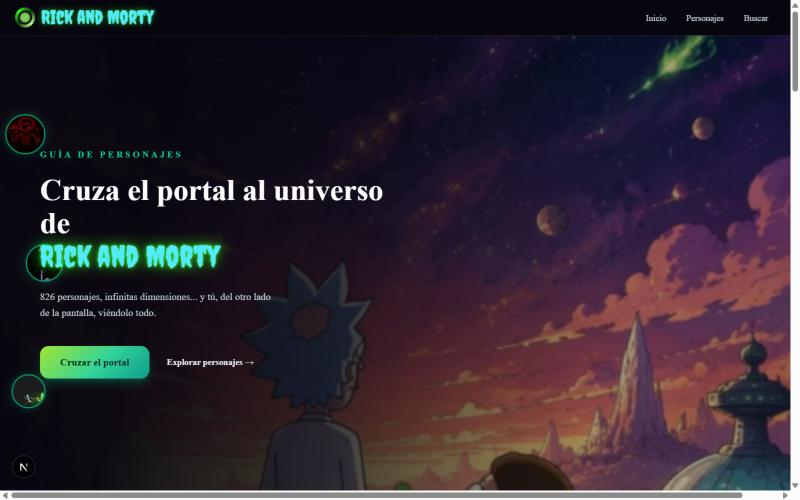
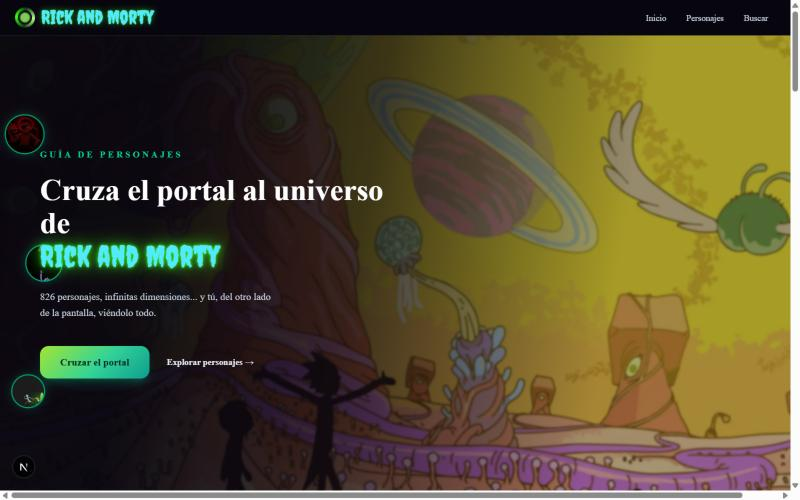
fix : semana10 - reemplazar el fondo del hero por una version en 1080p real
La imagen de referencia (landscape.jpg) era un wallpaper de celular de
736x1472: por mas CSS que se le aplique no hay detalle real que mostrar
en una pantalla HD/retina, solo se puede esconder la falta de nitidez,
no agregarla. Busque en wallhaven.cc (verificando resolucion real antes
de bajar nada) una escena equivalente -Rick y Morty caminando por un
paisaje alienigena, mirando un planeta- en 1920x1080 real y horizontal,
asi ya no hace falta estirar una foto vertical para cubrir una pantalla
ancha.

diff --git a/SEMANA10/next-ssg-isr-app/src/app/RickandMorty/Hero.tsx b/SEMANA10/next-ssg-isr-app/src/app/RickandMorty/Hero.tsx
@@ -122,7 +122,7 @@ export default function Hero({ total }: { total: number }) {
 
             {/* fondo a página completa, oscurecido hacia el texto (izquierda) */}
             <div className="absolute inset-0 -z-10">
-                <BackgroundPhoto src="/rickandmorty/landscape.jpg" priority />
+                <BackgroundPhoto src="/rickandmorty/landscape-hd.jpg" priority />
                 <div
                     className="absolute inset-0"
                     style={{
